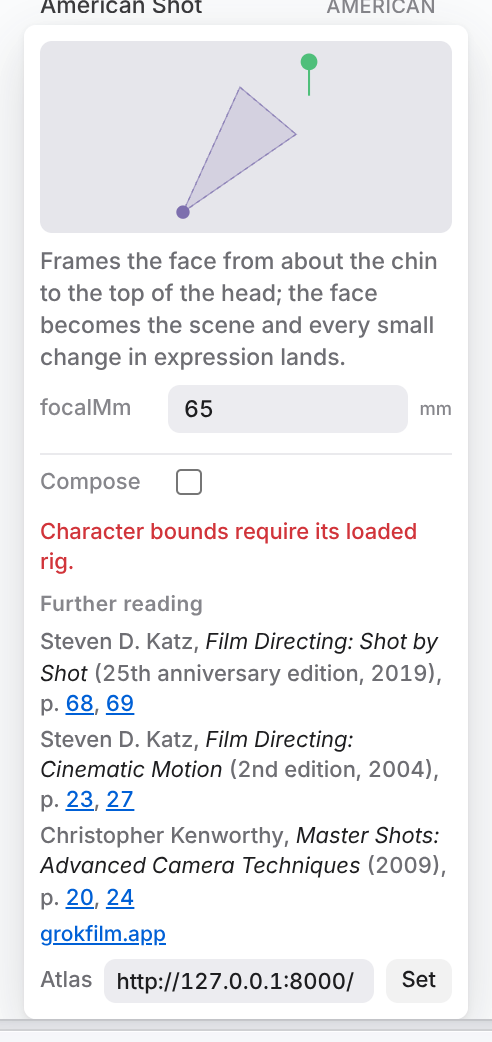
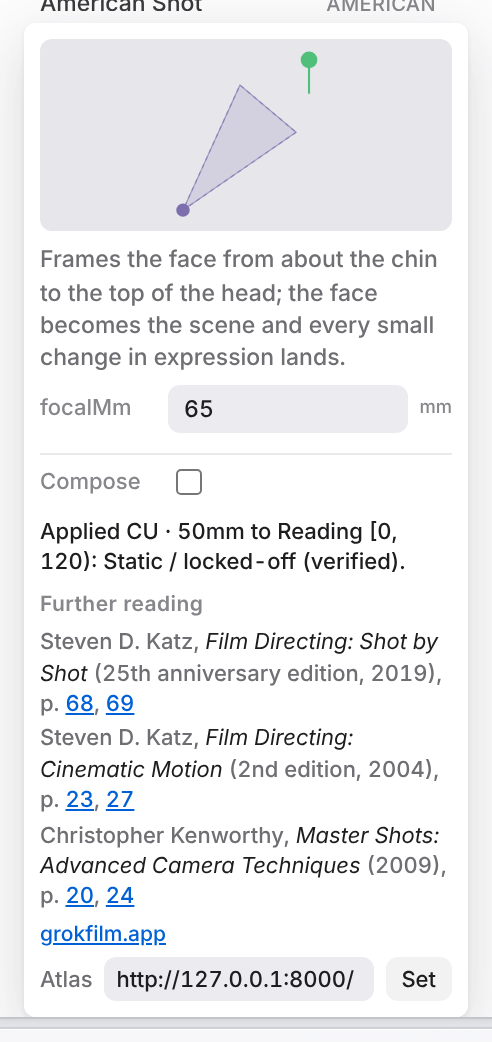
test(camera): technique references browser QA passes; proofs through the real Set flow (intent technique-references)
Claude-Session: https://claude.ai/code/session_01N1UXbjobThM1JqhaCA4ytH

diff --git a/docs/intent/technique-references/progress.md b/docs/intent/technique-references/progress.md
@@ -2,8 +2,8 @@
 
 - Working under rev: 2
 - Worker: cloud worker agent (technique-references)
-- Current step: none (A1, A2, A4, A5 met; A6 and A3's images ready for review; A3's ui:qa open on F-2)
-- Next step: orchestrator: run A3's ui:qa on a working browser host (F-2), review the A3 images and A6
+- Current step: none (A1-A5 met; A6 and the A3 images ready for review)
+- Next step: orchestrator review of the A3 images and A6, then the PR
 - PR: none yet
 
 ## Acceptance
@@ -12,7 +12,7 @@
 | --- | --- | --- |
 | A1 | met (gate) | `node test/verify-technique-references.mjs` -> `6 checks passed` (coverage of all 65 techniques, 6 patterns, 4 cut rules: ref or listed none, never both; fields `id,title,author,edition,year` / `book,pages` only; short strings; camera and directing books only; no path, excerpt or file name in `data.js`) |
 | A2 | met (gate) | same file: `tools/atlas-refs.mjs` run twice on `test/fixtures/atlas-refs` -> identical bytes, `atlas-refs: 4 entries with references, 71 without, 2 books`, exact expected refs, no fixture excerpt / page title / source name / section title / non-citable book in the output; refuses without `ATLAS_DIR` |
-| A3 | partial (ui:qa blocked by the container, F-2); ui:shot ready for review | ui:qa `test/verify-technique-references-browser.mjs` in this container (F-2 workarounds): every rendering check PASS (plain citations on load, links `http://127.0.0.1:8000/#/book/<id>/<page>` on load with a stored URL, new tab, Coverage pattern linked, no-page line, storage write), FAIL only the live re-render after Set / clear (env: suspended React root, same as unchanged main's picker QA), exit 1. ui:shot ready for review: `proofs/further-reading-plain.png`, `proofs/further-reading-linked.png`, `proofs/further-reading-studio.png` |
+| A3 | met (ui:qa); ui:shot ready for review | ui:qa: `node tools/qa-browser.mjs -- node test/verify-technique-references-browser.mjs` (step 7) exit 0, `technique references browser QA passed`, 19 PASS 0 FAIL: plain citations without an atlas URL; Set links every page to `http://127.0.0.1:8000/#/book/<id>/<page>`, stored for the viewer, the Coverage pattern linked too; no-page line; after a reload still linked, new tab; clearing returns plain text and forgets it. ui:shot ready for review: `proofs/further-reading-plain.png`, `proofs/further-reading-linked.png`, `proofs/further-reading-studio.png` |
 | A4 | met (gate) | `node mcp/verify-camera-techniques.mjs` -> `19 passed, 0 failed` (index 3,215 bytes, unchanged, no citations; `id: "close-up"` brings `references` [book, pages, cite]; a technique with none answers `[]`; `references: true` lists books, techniques, coverage patterns and cut rules in one receipt under 8 KiB; `references: true` with an id reads it in full); also `mcp/verify.mjs` `all checks passed`, `mcp/verify-tool-annotations.mjs` `PASS G005 ... (32 tools; deterministic order)`, `mcp/verify-live.mjs` exit 0 |
 | A5 | met (known exception) | `npm run lint` -> `knip: 138 findings, 0 new, 1 fixed (baseline 139)`, `loc: 72 files over 250 (baseline 72), 0 violations`, `eslint: 396 errors across 20 rules (baseline 403), 0 regressions` (no baseline touched); `npm run build` -> `BUILD_EXIT=0`; suite, no dev server, `env -u AWS_ACCESS_KEY_ID -u AWS_SECRET_ACCESS_KEY -u AWS_CA_BUNDLE node /home/claude/local-tools/suite-all.mjs --jobs 4` on cbd857b8 -> `SUITE-ALL: 460 files, 458 passed, 2 failed`: `verify-motion3-exitcar.mjs` (`FAIL compile + QA stay fast (< 3 s CPU) — 4290 ms CPU`) and `verify-motion3-repair.mjs` (`FAIL exit car, hips sunk: under 10 s — 29256 ms`), both CPU-timing checks that also fail on base 38111cb (`base-main-38111cb.txt`: `SUITE-ALL: 454 files, 451 passed, 3 failed`, the same two plus `verify-agent-login.mjs`, which the orchestrator traced to the container's cloud credentials) |
 | A6 | ready for review | `mcp/README.md` (`list_camera_techniques` row, Further reading paragraph), `docs/studio-ui-ia.md` (Further reading and the Atlas field in the technique popover; Coverage), `CHANGELOG.md` Unreleased > Camera; commit 09d7eca2 |
@@ -29,6 +29,10 @@
    - `proofs/further-reading-studio.png`: the whole studio in Camera mode with that popover in the Details column (the viewport is blank in this container's software GL; the red apply refusal is the container's unloaded rig).
 5. Merged `origin/main` 94c4b48d (director-evals #10): da2fde10; conflicts only in `CHANGELOG.md` (both entries kept) and the `tools/run-tests.mjs` manifest line (both files kept). Re-ran: `node mcp/verify-camera-techniques.mjs` -> `19 passed, 0 failed`; `node test/verify-technique-references.mjs` -> `6 checks passed`; `node test/verify-camera-techniques.mjs` -> `12 checks passed`; `node mcp/verify.mjs` -> `all checks passed`. `npm run build` -> `BUILD_EXIT=0` (`✓ built in 3.94s`, `sitemap: 6 urls`).
 6. A5 gates on cbd857b8 (dev server stopped): lint, build and the suite as in the A5 row.
+7. A3 ui:qa rerun after F-2's fix (F-2 resolved by the orchestrator's CDN stub proxy; the scratch stub helper is deleted). The QA script now seeds two characters, waits for the rig so the pick applies, takes the linked shot right after **Set** (the real flow), and checks the reload with the URL that Set stored (no direct storage write). Dev server `COZYCLAY_LIVE_PORT=5314 npm run dev -- --port 5214 --strictPort`; `QA_CHROME_FLAGS='--no-sandbox --proxy-server=http://127.0.0.1:8444 --ignore-certificate-errors' COZYCLAY_LIVE_PORT=5314 CDP_PORT=9314 QA_URL=http://127.0.0.1:5214/app/ CHROME_PATH=/opt/pw-browsers/chromium QA_SHOT_DIR=docs/intent/technique-references/proofs node tools/qa-browser.mjs -- node test/verify-technique-references-browser.mjs` -> exit 0, `technique references browser QA passed` (19 PASS, 0 FAIL).
+   - `proofs/further-reading-plain.png`: the close-up popover with the receipt "Applied CU · 50mm to Reading [0, 120): Static / locked-off (verified).", Further reading with three citations (Katz, Shot by Shot, 25th anniversary edition, 2019, p. 68, 69; Katz, Cinematic Motion, 2nd edition, 2004, p. 23, 27; Kenworthy, Master Shots: Advanced Camera Techniques, 2009, p. 20, 24) as plain text, the grokfilm.app link, the Atlas field empty (placeholder).
+   - `proofs/further-reading-linked.png`: the same popover right after typing `http://127.0.0.1:8000` and Set: every page number a link, the field normalised to `http://127.0.0.1:8000/`.
+   - `proofs/further-reading-studio.png`: the whole studio in Camera mode (two characters in the viewport, the Shot Camera preview) with that popover in the Details column.
 
 ## Reconciliations
 

diff --git a/docs/intent/technique-references/findings.md b/docs/intent/technique-references/findings.md
@@ -9,9 +9,10 @@ Discoveries that may change the intent. The worker adds entries; the orchestrato
 **Proposed amendment:** none; D1 and A1 assume (a). Under (b), A1 and A2 write to a local file and the verify file uses a fixture only.
 **Resolution:** option (a), by the owner on 2026-10-24 (log L-4): acceptable because the tool is used internally for prototyping and proofs of concept. Folded into rev 2 as D3.
 
-## F-2 (2026-10-24, rev 2) | blocking: no (A3's ui:qa cannot fully pass in the cloud container) | status: open
+## F-2 (2026-10-24, rev 2) | blocking: no (A3's ui:qa cannot fully pass in the cloud container) | status: resolved
 
 **Found:** In this Linux cloud container the real studio cannot run a browser QA that changes UI state after load, on unchanged code too. Three environment effects: (1) Chromium as root needs `--no-sandbox` (`QA_CHROME_FLAGS`); (2) the egress policy refuses `cdn.jsdelivr.net`, which `three/examples/jsm/Addons` imports statically (LottieLoader, TTFLoader), so the studio's module graph never loads unless a CDP session answers those requests with an empty module (a scratch helper did this; nothing committed); (3) even then the DOM React root sits suspended (`root.pendingLanes 32, suspendedLanes 32`, no pending commit, two `blob:` worker scripts that never finish), so most state changes after load never commit. Evidence: the existing `test/verify-camera-technique-picker-browser.mjs` with the picker and Coverage panel restored to `origin/main` fails from "search forgives spelling" on (`FAIL ... the Angle tab lists only the 11 angles`, `FAIL picking Low Angle ...`) under the same command.
 **Effect on A3:** `test/verify-technique-references-browser.mjs` passes every rendering check (plain citations on load, `<atlas URL>#/book/<id>/<page>` links on load with a stored URL, links open in a new tab, the Coverage pattern linked, the no-page line) and the storage write; it fails only the checks that need a live re-render after **Set** / clearing (`setting the atlas URL links the citations`, `the Coverage pattern's reading links too`, `clearing the URL turns links back into plain text`, `and forgets it`, the per-page check right after Set).
 **Options:** (a) run the same command on the owner's Windows PC or another host with a working headless Chrome and record its exit code (recommended); (b) accept A3 on the rendering checks plus the unit gate for the setting (`normalizeAtlasUrl` / `readAtlasUrl` / `writeAtlasUrl` in `test/verify-technique-references.mjs`).
 **Proposed amendment:** none.
+**Resolution:** environmental, resolved by the orchestrator's shared CDN stub proxy (`/home/claude/local-tools/cdn-stub.mjs`, which also mirrors troika's jsdelivr `/gh/` font files whose absence left the React root suspended). With `QA_CHROME_FLAGS='--no-sandbox --proxy-server=http://127.0.0.1:8444 --ignore-certificate-errors'` the A3 QA passes in full (progress step 7). No code change was needed.
